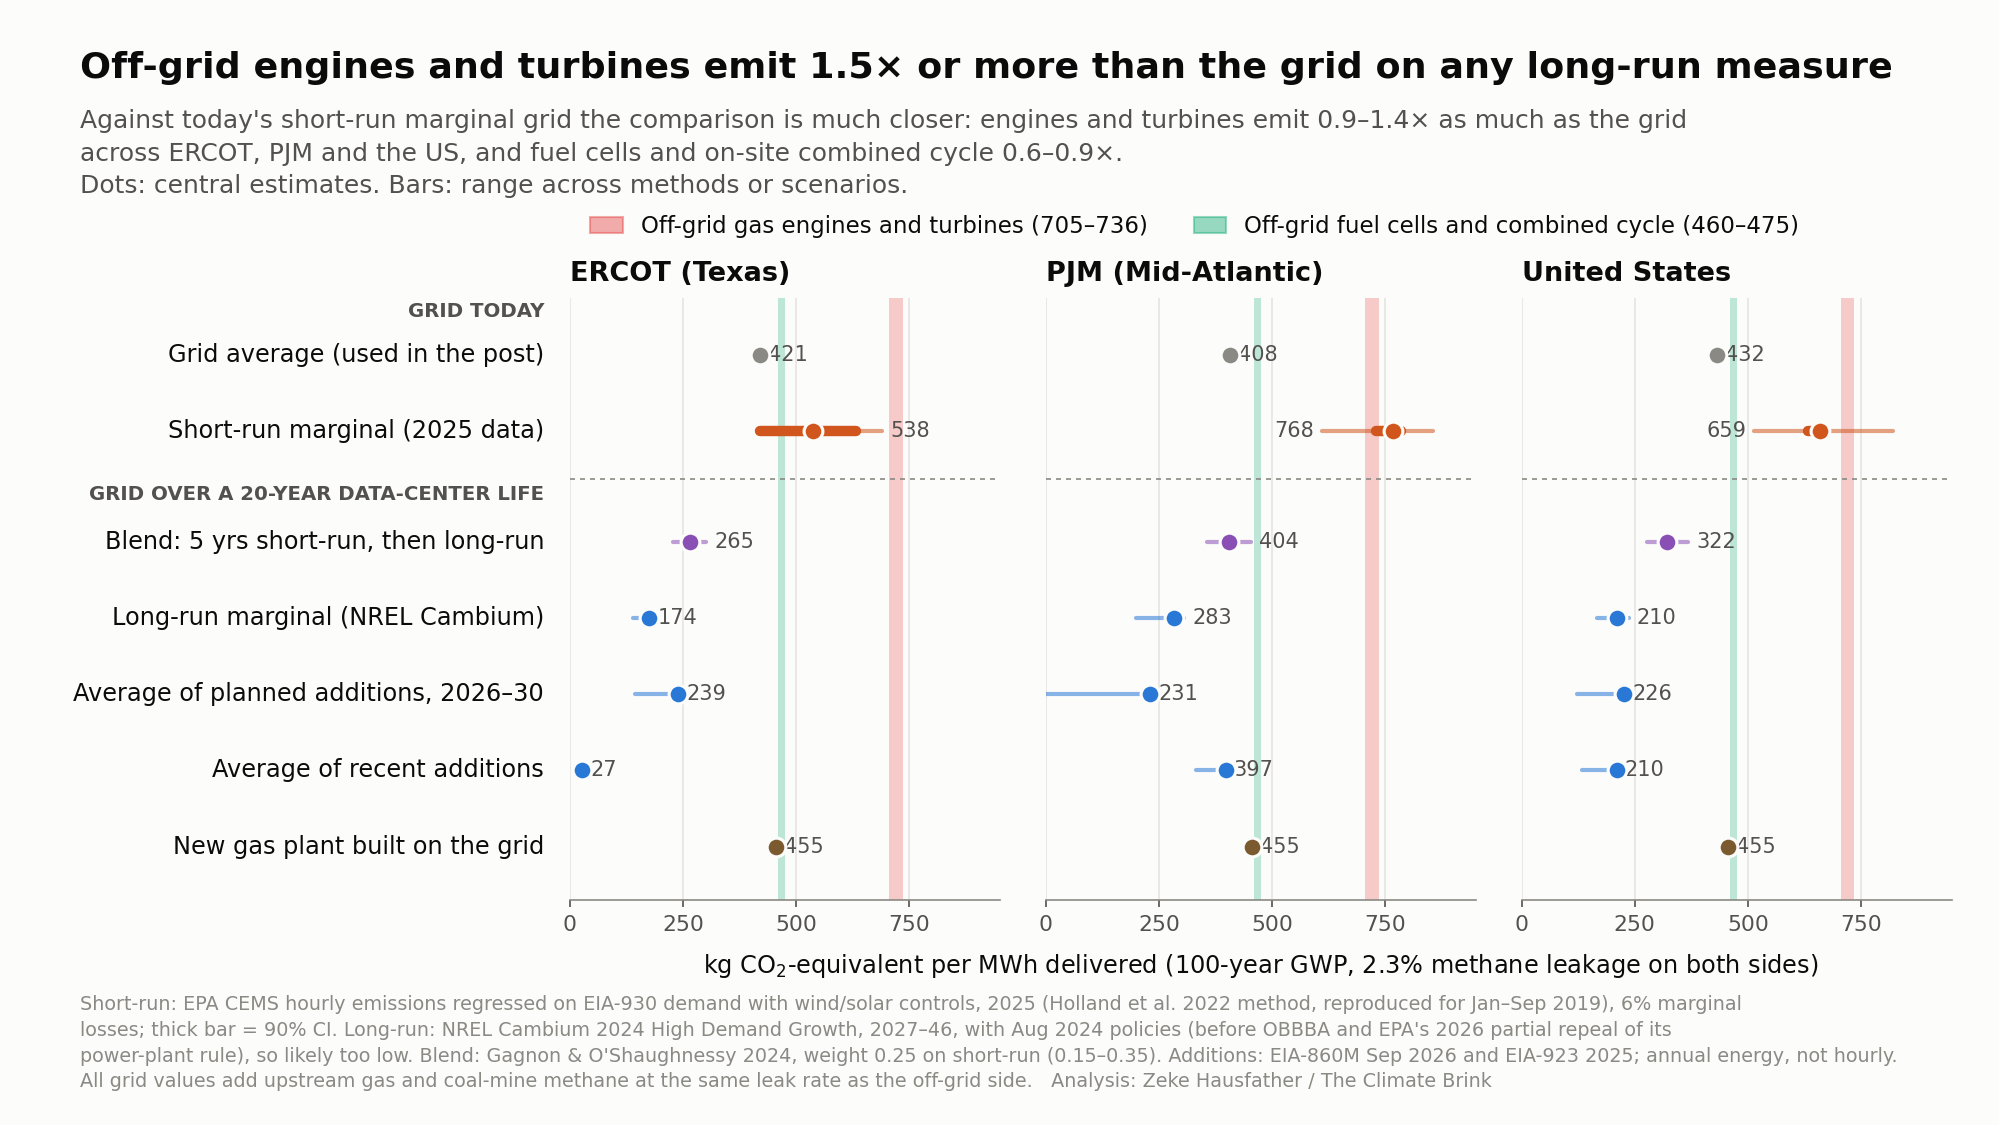
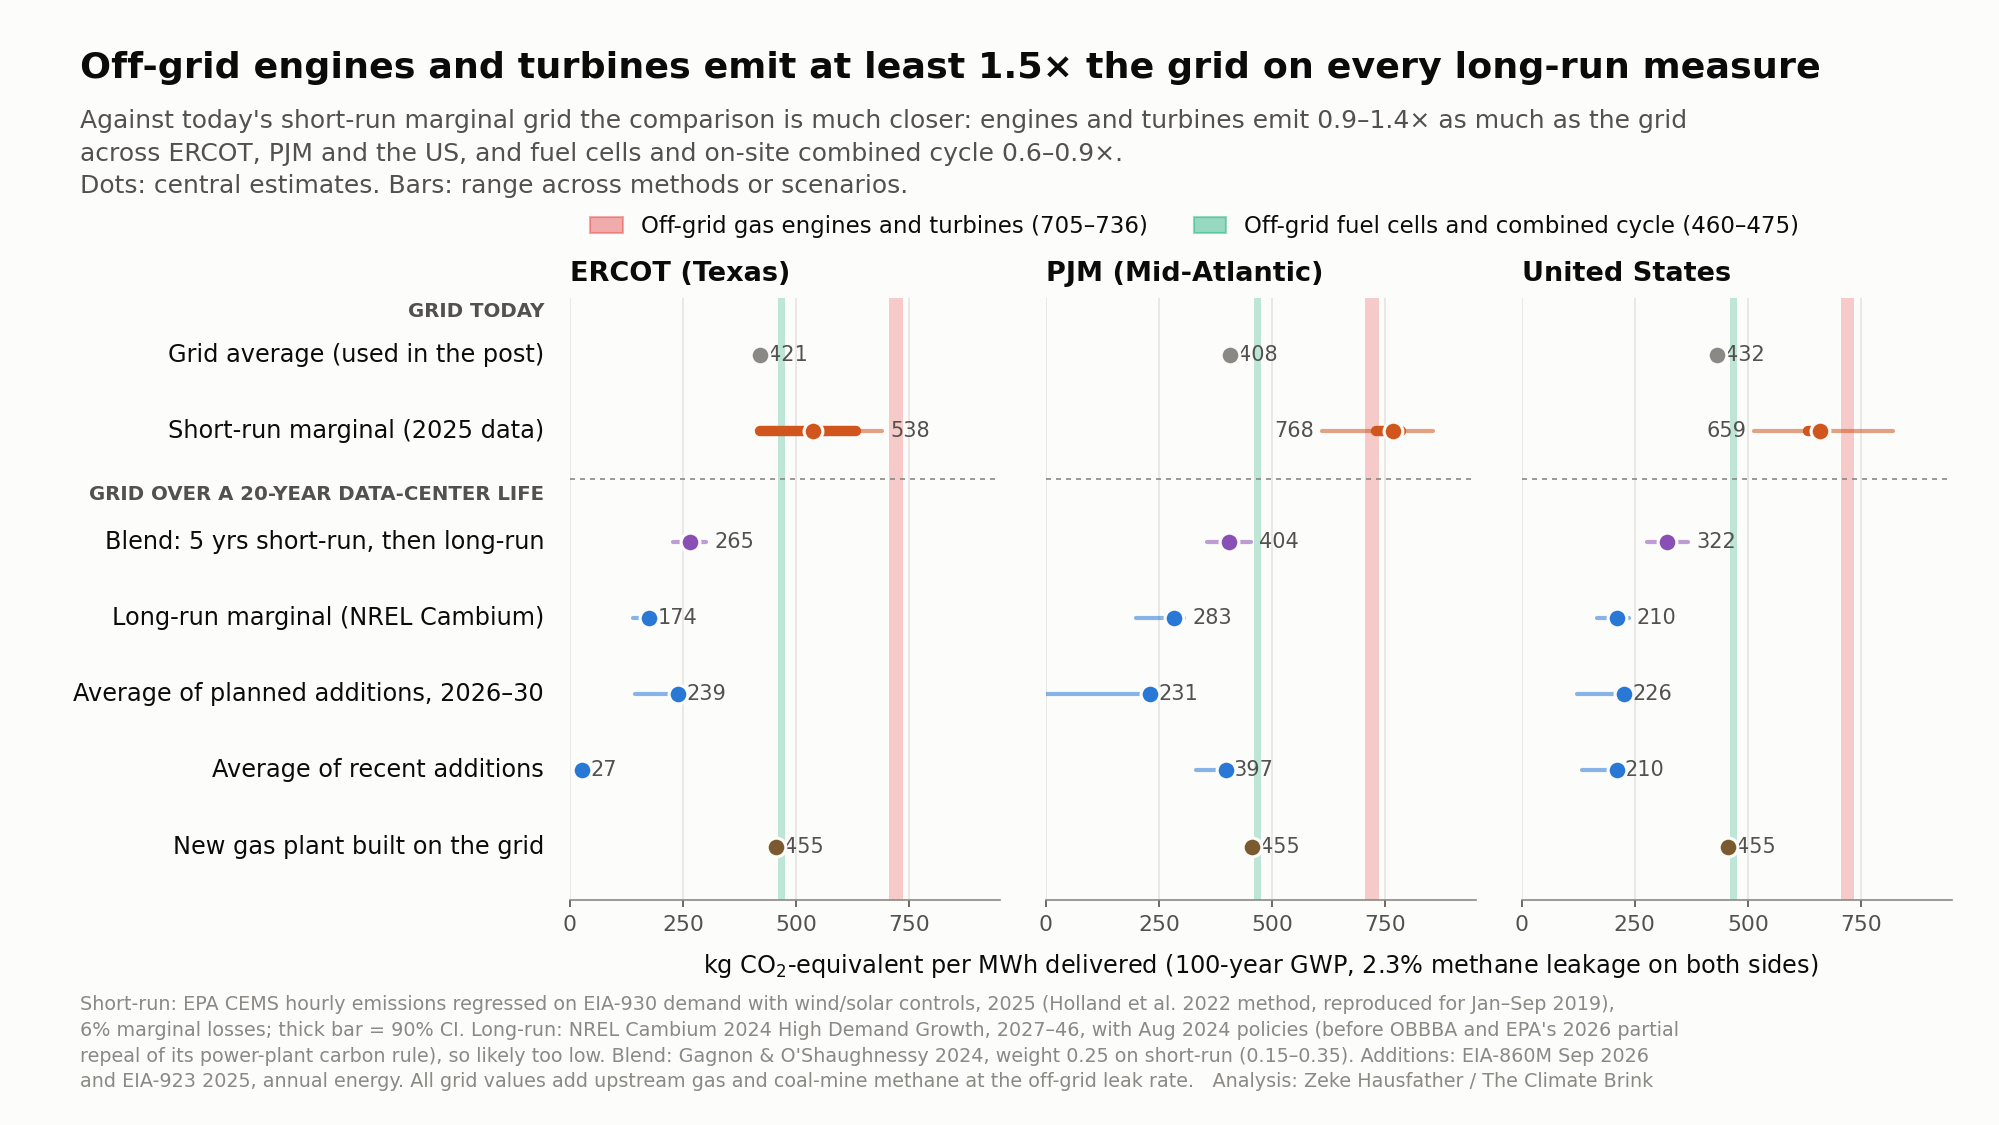
Marginal follow-up: log post-hoc changes, shared-sample fuel closure, same-vintage average, disclosures, FR citation, title fix

Changed region(s): [[0.031, 0.8711, 0.9305, 0.9644], [0.4032, 0.0311, 0.9615, 0.0933]]

diff --git a/scripts/marginal_srmer.py b/scripts/marginal_srmer.py
@@ -216,6 +216,8 @@ def spec_setup(region, boundary, regressor, renew):
 
 
 def keep_mask(P, flags, systems, ycols):
+    """Hours kept: demand not missing/imputed for the systems, and no 5xMAD spike in demand or the screened series.
+    region_estimate screens on the system's CO2e for every dependent variable, so fuel equations share one sample."""
     k = pd.Series(True, index=P.index)
     for s in systems:
         k &= ~flags[s]
@@ -233,7 +235,7 @@ def region_estimate(P, flags, region, est='levels', boundary='primary', regresso
                 xs = [f'{s}_gload'] if regressor == 'fossil' else [f'{s}_D']
                 if renew:
                     xs += [f'{s}_wind', f'{s}_solar']
-                k = keep_mask(P, flags, [s], [f'{s}_{y}'])
+                k = keep_mask(P, flags, [s], [f'{s}_co2e'])
                 b = estimate(P, k, f'{s}_{y}', xs, LST[s], est)
                 load = P[f'{s}_D'].sum()
                 out += b * load
@@ -242,10 +244,10 @@ def region_estimate(P, flags, region, est='levels', boundary='primary', regresso
         xs = ['L48_gload'] if regressor == 'fossil' else ['L48_D']
         if renew:
             xs += ['L48_wind', 'L48_solar']
-        k = keep_mask(P, flags, ['L48'], [f'L48_{y}'])
+        k = keep_mask(P, flags, ['L48'], ['L48_co2e'])
         return estimate(P, k, f'L48_{y}', xs, LST['EI'], est)
     ys, xs, fl, lst = spec_setup(region, boundary, regressor, renew)
-    k = keep_mask(P, flags, fl, [f'{ys}_{y}'])
+    k = keep_mask(P, flags, fl, [f'{ys}_co2e'])
     return estimate(P, k, f'{ys}_{y}', xs, lst, est)
 
 
@@ -389,8 +391,9 @@ def main():
             bnd = bnd_used if reg != 'PJM' else ('primary' if bnd_used == 'primary' else 'own')
             fb = {y: region_estimate(P, flags, reg, boundary=bnd, renew=True, y=y) for y in YCOLS}
             sysn = {'ERCOT': 'ERCOT', 'PJM': 'EI' if bnd == 'primary' else 'PJM', 'US': 'L48'}[reg]
-            ratios = {f: P[f'{sysn}_{f}_co2'].sum() / max(P[f'{sysn}_{f}_hi'].sum(), 1e-9) for f in ('gas', 'coal', 'oil', 'other')}
-            closure = sum(ratios[f] * fb[f'{f}_hi'] for f in ratios) / fb['co2'] - 1
+            ratios = {f: P[f'{sysn}_{f}_co2'].sum() / P[f'{sysn}_{f}_hi'].sum() for f in ('gas', 'coal', 'oil', 'other')
+                      if P[f'{sysn}_{f}_hi'].sum() > 0}
+            closure = (sum(ratios[f] * fb[f'{f}_hi'] for f in ratios) + (fb['other_co2'] if 'other' not in ratios else 0)) / fb['co2'] - 1
             boot = bootstrap(P, flags, reg, renew=True, boundary=bnd)
             passing = sr[sr.d1e_pass]
             prim.append(dict(year=year, region=reg, spec=f'levels+FE, demand, wind/solar controls, boundary={bnd}',

diff --git a/scripts/make_marginal_figure.py b/scripts/make_marginal_figure.py
@@ -107,7 +107,7 @@ EFFS = ['Fuel cells (Bloom SOFC)', 'Combined cycle (on site)']
 lr = v[v.option.isin(ENGS) & v.metric.isin(['blend', 'cambium', 'planned', 'recent', 'ngcc'])]
 assert (lr.verdict == 'worse').all(), 'title assumes engines/turbines are worse on every long-run metric'
 lr_min = np.floor(lr.ratio.min() * 10) / 10
-title = f"Off-grid engines and turbines emit {lr_min:.1f}× or more than the grid on any long-run measure"
+title = f"Off-grid engines and turbines emit at least {lr_min:.1f}× the grid on every long-run measure"
 sre = v[v.option.isin(ENGS) & (v.metric == 'srmer')].ratio
 srf = v[v.option.isin(EFFS) & (v.metric == 'srmer')].ratio
 r1 = lambda x: f'{x:.1f}'
@@ -117,11 +117,10 @@ sub = (f"Against today's short-run marginal grid the comparison is much closer: 
 fig.text(0.04, 0.955, title, fontsize=17.5, fontweight='bold', color=INK, va='top')
 fig.text(0.04, 0.903, sub, fontsize=12, color=INK2, va='top', linespacing=1.45)
 fig.text(0.04, 0.03,
-         "Short-run: EPA CEMS hourly emissions regressed on EIA-930 demand with wind/solar controls, 2025 (Holland et al. 2022 method, reproduced for Jan–Sep 2019), 6% marginal\n"
-         "losses; thick bar = 90% CI. Long-run: NREL Cambium 2024 High Demand Growth, 2027–46, with Aug 2024 policies (before OBBBA and EPA's 2026 partial repeal of its\n"
-         "power-plant rule), so likely too low. "
-         "Blend: Gagnon & O'Shaughnessy 2024, weight 0.25 on short-run (0.15–0.35). Additions: EIA-860M Sep 2026 and EIA-923 2025; annual energy, not hourly.\n"
-         "All grid values add upstream gas and coal-mine methane at the same leak rate as the off-grid side.   Analysis: Zeke Hausfather / The Climate Brink",
+         "Short-run: EPA CEMS hourly emissions regressed on EIA-930 demand with wind/solar controls, 2025 (Holland et al. 2022 method, reproduced for Jan–Sep 2019),\n"
+         "6% marginal losses; thick bar = 90% CI. Long-run: NREL Cambium 2024 High Demand Growth, 2027–46, with Aug 2024 policies (before OBBBA and EPA's 2026 partial\n"
+         "repeal of its power-plant carbon rule), so likely too low. Blend: Gagnon & O'Shaughnessy 2024, weight 0.25 on short-run (0.15–0.35). Additions: EIA-860M Sep 2026\n"
+         "and EIA-923 2025, annual energy. All grid values add upstream gas and coal-mine methane at the off-grid leak rate.   Analysis: Zeke Hausfather / The Climate Brink",
          fontsize=9.2, color=MUTED, va='bottom', linespacing=1.45)
 out = ROOT / 'figures' / 'marginal_vs_average.png'
 fig.savefig(out, dpi=150, facecolor=SURF)

diff --git a/scripts/marginal_compare.py b/scripts/marginal_compare.py
@@ -9,7 +9,10 @@ from pathlib import Path
 import numpy as np
 import pandas as pd
 
-from cases import CASES, L_PRIMARY, btm, grid_avg, grid_ngcc, tot
+import json
+
+import emissions as em
+from cases import CASES, CMM, F_SUPPLY, GRID_LOSS, L_PRIMARY, btm, grid_avg, grid_ngcc, tot
 
 ROOT = Path(__file__).resolve().parents[1]
 R = ROOT / 'results' / 'marginal'
@@ -17,6 +20,19 @@ YEAR = 2025
 W, W_RANGE = 0.25, (0.15, 0.35)
 CAMBIUM_GEA = {'ERCOT': 'ERCOT', 'PJM': 'PJM_East', 'US': 'US (pop-weighted)'}
 OPTIONS = [c for c, v in CASES.items() if v[3]]
+
+
+def average_2025(reg, ef_coal=96.0):
+    """Same-vintage grid average: EIA-930 2025 consumption CO2 intensity (data/eia930_intensity.json) with the
+    main analysis's upstream gas CH4, supply CO2 and coal-mine CH4, /(1 - 0.03). Not available for the US."""
+    ba = {'ERCOT': 'ERCO', 'PJM': 'PJM'}.get(reg)
+    if ba is None:
+        return np.nan
+    e = json.load(open(ROOT / 'data' / 'eia930_intensity.json'))[ba]['2025']
+    c = e['consumption_kg_mwh']
+    gas, coal = c * e['gas_share_gen_co2'] / em.EF_CO2, c * e['coal_share_gen_co2'] / ef_coal
+    g = em.GWP['AR6_100']['ch4']
+    return (c + gas * em.EF_CO2 * F_SUPPLY + gas * em.upstream_ch4(L_PRIMARY) * g + coal * CMM * g) / (1 - GRID_LOSS)
 
 
 def metrics():
@@ -52,6 +68,9 @@ def metrics():
                          central=rt, lo=min(rt, rw), hi=max(rt, rw), note='Tool 07 20% sample; bar to 2020-24 window'))
         rows.append(dict(region=reg, metric='ngcc', label='New gas plant on the grid', horizon='long',
                          central=tot(grid_ngcc(L_PRIMARY)), lo=np.nan, hi=np.nan, note='H-class NGCC, 3% losses'))
+        rows.append(dict(region=reg, metric='average_2025', label='Grid average, 2025 (same vintage as the short-run rate)',
+                         horizon='today', central=average_2025(reg), lo=np.nan, hi=np.nan,
+                         note='table only: EIA-930 2025 consumption-basis CO2 with the main analysis upstream terms; no US aggregate in EIA-930 intensities'))
     return pd.DataFrame(rows)
 
 
@@ -63,6 +82,8 @@ def verdicts(m):
     mc = mc.set_index(['region', 'reference', 'case']).tie_band
     out = []
     for _, r in m.iterrows():
+        if np.isnan(r.central):
+            continue
         half = np.nanmax([r.central - r.lo, r.hi - r.central]) / r.central if not np.isnan(r.lo) else 0.0
         for o in OPTIONS:
             band = max(0.05, half, mc[(r.region, 'B' if r.metric == 'ngcc' else 'A', o)])

diff --git a/METHODS.md b/METHODS.md
@@ -397,7 +397,7 @@ Results are in `results/marginal/`. Off-grid values are unchanged (GWP100, L = 2
   - **D1c, AVERT v4.3 2023** at generation level (Texas 560, Mid-Atlantic 574, national about 600):
     - Fossil-load variant: −7.7%, +8.5% and −0.8%. Pass.
     - Demand spec: −23.5%, −6.7% and −18.8%, outside the pre-registered 5–15%-below expectation for ERCOT and the US.
-  - **D1d, fuel closure:** −0.9% / −3.7% / −1.1%. PJM misses the 3% tolerance slightly.
+  - **D1d, fuel closure:** +1.2% / −0.8% / 0.0%. These values come after all fuel equations were moved to a shared outlier-screened sample; the first run missed PJM by −3.7% (change log).
   - **D1e, plausibility (primary):**
     - fossil share 0.79 / 0.93 / 0.85;
     - marginal gas heat rate 8.0 / 9.3 / 8.7 MMBtu/MWh.
@@ -418,7 +418,17 @@ Results are in `results/marginal/`. Off-grid values are unchanged (GWP100, L = 2
   - US = GEA regions weighted by county population (Census 2024 estimates; 10 counties unmatched).
   - PJM = PJM_East, where Loudoun County sits. The population-weighted East/West value is 271.
 - **Scenario range (3%):** ERCOT 140–175, PJM_East 200–306, US 166–237. The simple means (0%) are 165 / 276 / 199.
-- **Bias.** All Cambium 2024 scenarios keep IRA credits without phase-out and include the 2024 EPA §111 rule. EPA partially repealed that rule on 2026-09-17 (law-firm alerts; not checked in the Federal Register). Both points make the long-run rate too low by an unknown amount.
+- **Bias.** All Cambium 2024 scenarios keep IRA credits without phase-out and include the 2024 EPA §111 rule. EPA partially repealed that rule in Federal Register doc. 2026-19071, "Partial Repeal of the Carbon Pollution Standards for Fossil Fuel-Fired Electric Generating Units", published 2026-09-17, effective 2026-11-16 per law-firm alerts. Both points make the long-run rate too low by an unknown amount.
+
+## Blend and framing conventions
+- The blend follows Gagnon & O'Shaughnessy 2024 (NREL/TP-6A40-91580): MER = w·SRMER + (1 − w)·LRMER. Their worked example (a 3-year lag on a 20-year load) gives w = 0.15. We use w = 0.25 (a 5-year lag) with a range of 0.15–0.35. **The report was funded by Amazon**; cite it with that disclosure.
+- **Concession.** For crediting, the CDM grid-emission-factor convention (Tool 07) appears to assign projects that *increase* grid consumption the operating margin only (w_OM = 1, w_BM = 0). On that convention the short-run rate is the relevant comparator.
+  - This comes from Verra's Oct 2024 draft methodology text; the UNFCCC TOOL07 text itself was not read.
+  - It is a crediting rule, not a consequential estimate.
+- Holland et al. (reply to Gagnon et al., PNAS 2022) describe their estimates as short-run and say "a range of possible impacts is most informative". The quote was read by the domain reviewer, not re-checked here. That supports showing both horizons.
+
+## Same-vintage grid average (table only)
+EIA-930 2025 consumption-basis CO2 with the same upstream terms gives ERCOT 389 and PJM 417 kg CO2e/MWh, against eGRID2023's 421 and 408. Engines and turbines are 1.81–1.89× and 1.69–1.77× these values. No US value is computed.
 
 ## Build margins (M3, M4)
 - **Units.** Units are plant × prime-mover groups (CC parts merged). Data: EIA-860M Sep 2026 and EIA-923 2025 Final (Page 1, fuel for electricity). Storage is excluded. Gas CO2e uses `em.intensity()` with W-7 slip by prime mover.

diff --git a/PLAN_marginal.md b/PLAN_marginal.md
@@ -222,3 +222,17 @@ New grid H-class NGCC: 455 kg CO2e/MWh at L = 2.3% (`grid_ngcc()`), with 3% loss
     - (4) The bootstrap CI is computed on the new primary spec.
   - The uncontrolled values and the median of passing specs are reported alongside.
   - ERCOT's result came in below the pre-registered 650–780 expectation. Law-firm alerts (Beveridge & Diamond; Jackson Walker) report that EPA finalized a partial repeal of the 2024 rule on 2026-09-17, effective 2026-11-16, and proposed a full repeal. Not checked in the Federal Register.
+- **2026-10-26, verdict rule (post hoc, after the first verdicts.csv).** The band is now max(5%, the main analysis's Monte Carlo tie band for that option and region, the metric's half-range). The pre-registered rule omitted the MC term.
+  - Effect: SOFC against the 2023 grid average flips from "worse" to "tie" in ERCOT (1.09×) and the US (1.06×), which reproduces the post's own verdicts.
+  - No engine or turbine cell changes, and no short-run or long-run cell changes.
+  - Reason: the MC band carries the off-grid side's own uncertainty, which does not depend on how the grid is counted.
+- **2026-10-26, figure subtitle (post hoc).** Per-region short-run verdicts were replaced by ratio ranges (engines and turbines 0.9–1.4×; fuel cells and CC 0.6–0.9×).
+  - Reason: ERCOT's short-run verdict flips between the primary levels spec (538 → engines 1.31–1.37×, "worse") and the daily-totals spec, which nets battery charging (663 → 1.06–1.11×, "tie").
+  - Neither is clearly right, so the figure states the ratio range, and METHODS gives both.
+- **2026-10-26, D1d fuel closure.** The first run missed for PJM (−3.7% vs ±3%). Cause: each dependent variable had its own 5×MAD outlier screen, so the fuel equations ran on slightly different hours from the CO2 equation (methods review SF6). All dependent variables now share the CO2e-screened sample.
+  - Closure is now +1.2% / −0.8% / 0.0% (pass).
+  - Headline CO2e values are unchanged, because they were already screened on CO2e.
+- **2026-10-26, same-vintage average (both reviews asked for it; missing from v2's outputs).** Added as a table-only metric, `average_2025`: EIA-930 2025 consumption CO2 with the main analysis's upstream terms.
+  - ERCOT 389, PJM 417. There is no US aggregate in the EIA-930 intensity file.
+  - Engines and turbines are 1.81–1.89× (ERCOT) and 1.69–1.77× (PJM) of it.
+- **2026-10-26, §111.** Verified in the Federal Register: doc. 2026-19071, "Partial Repeal of the Carbon Pollution Standards for Fossil Fuel-Fired Electric Generating Units", published 2026-09-17.

diff --git a/README.md b/README.md
@@ -32,7 +32,7 @@ Several readers argued that the grid side should use a marginal emission rate in
   - Results: ERCOT 538, PJM 768, US 659 kg CO2e/MWh (6% marginal losses, upstream methane added).
   - Engines and turbines come out at 0.9–1.4× these rates, fuel cells and on-site combined cycle at 0.6–0.9×.
   - In ERCOT, a daily-total specification that nets out battery charging gives 663.
-- **Long-run.** Engines and turbines emit 1.5× or more than every long-run measure:
+- **Long-run.** Engines and turbines emit at least 1.5× the grid on every long-run measure:
   - NREL Cambium 2024 LRMER (pre-OBBBA, so likely too low);
   - a 5-year short-run/long-run blend;
   - the average of planned or recent additions;
@@ -73,7 +73,7 @@ python3.13 write_regional_methods.py  # regenerates the regional section of METH
 # average vs marginal grid emissions (PLAN_marginal.md)
 python3.13 marginal_eia930.py    # EIA-930 hourly demand/generation, 2019 + 2023-25 -> data/marginal/eia930_hourly.parquet (~5 min)
 EPA_API_KEY=... python3.13 marginal_campd.py 2019 2023 2025   # EPA CEMS hourly, streamed (~2 GB/quarter, deleted after aggregation)
-python3.13 marginal_srmer.py     # short-run rates, specification envelope, diagnostics (uses committed data/marginal/srmer_panel_*.parquet if present)
+python3.13 marginal_srmer.py     # short-run rates, envelope, diagnostics; uses committed data/marginal/srmer_panel_*.parquet (delete them to rebuild from new CEMS data)
 python3.13 marginal_cambium.py   # Cambium 2024 LRMER, matched to this project's methane accounting
 python3.13 marginal_build.py     # recent/planned additions (needs EIA-860M Sep 2026 + EIA-923 2025 in data/marginal/tmp/)
 python3.13 marginal_compare.py   # all grid metrics, ratios and verdicts -> results/marginal/

diff --git a/sources/marginal/MARGINAL_SOURCES.md b/sources/marginal/MARGINAL_SOURCES.md
@@ -255,3 +255,4 @@ These come from law-firm client alerts found by web search; the Federal Register
 - Beveridge & Diamond: EPA "published the final rule partially repealing the 2024 Carbon Pollution Standards on September 17, 2026", effective November 16, 2026. https://www.bdlaw.com/publications/epa-partially-repeals-power-plant-carbon-rules-punts-questions-of-broader-authority-to-new-proposal/
 - Jackson Walker: the Administrator signed the repeal and a supplemental proposal to end power-plant GHG regulation entirely on September 14, 2026. https://www.jw.com/news/insights-epa-carbon-pollution-ghg-regulation/
 - Relevance: Cambium 2024's scenarios include the 2024 §111 rule (domain review §2.4). Its long-run marginal emission rates therefore assume a coal-retirement and new-gas constraint that has since been partly removed.
+- VERIFIED (2026-10-26, Federal Register API): "Partial Repeal of the Carbon Pollution Standards for Fossil Fuel-Fired Electric Generating Units", type Rule, published 2026-09-17, document number 2026-19071, https://www.federalregister.gov/documents/2026/09/17/2026-19071/partial-repeal-of-the-carbon-pollution-standards-for-fossil-fuel-fired-electric-generating-units . The effective date (2026-11-16) is from the law-firm alerts only.
